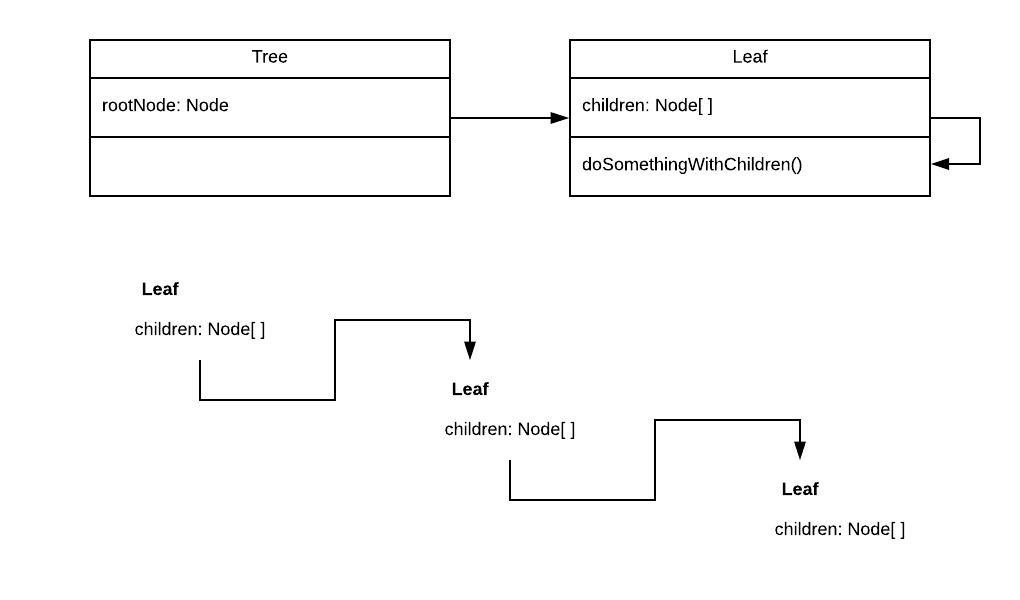
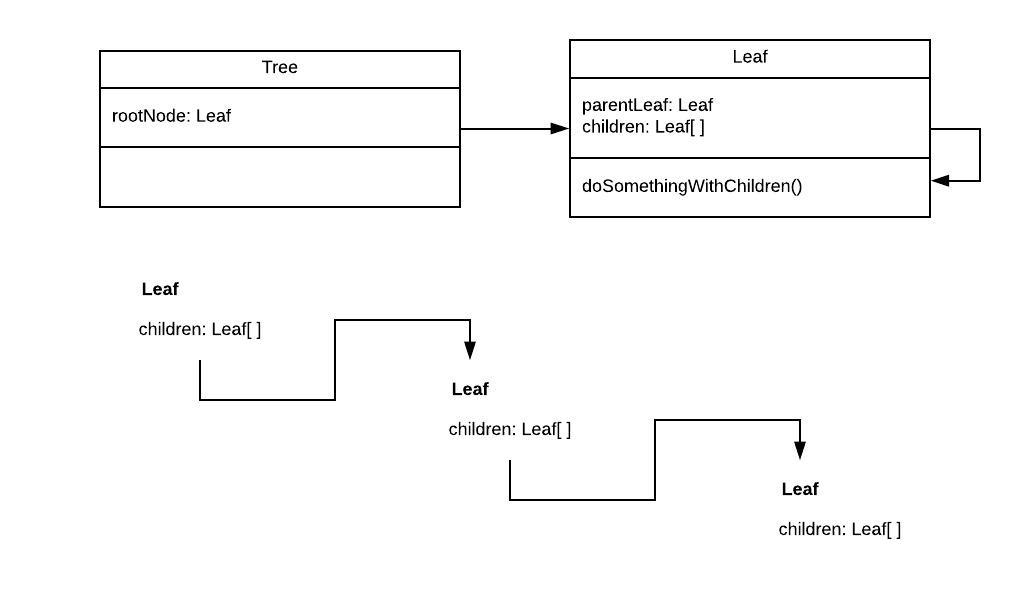
test

diff --git a/first.md b/first.md
@@ -29,10 +29,7 @@ As you can observe from the above diagram it will be a play where recursion and 
 The composition part comes to light where the leaf has a reference to its parent and children therefor a leaf is able to do something 
 with children. For the record this is not an advocation for pedopilia.  
 
-
-
-Recursion and compositions combinations
-Comes into play
+//TODO code here
 
 Each leaf represents a category ... yeah I know it's unoriginal and boring (probably the oxygen deprivation talking). But it is able to illustrate
 my point very effictively so suck it up ;) 
